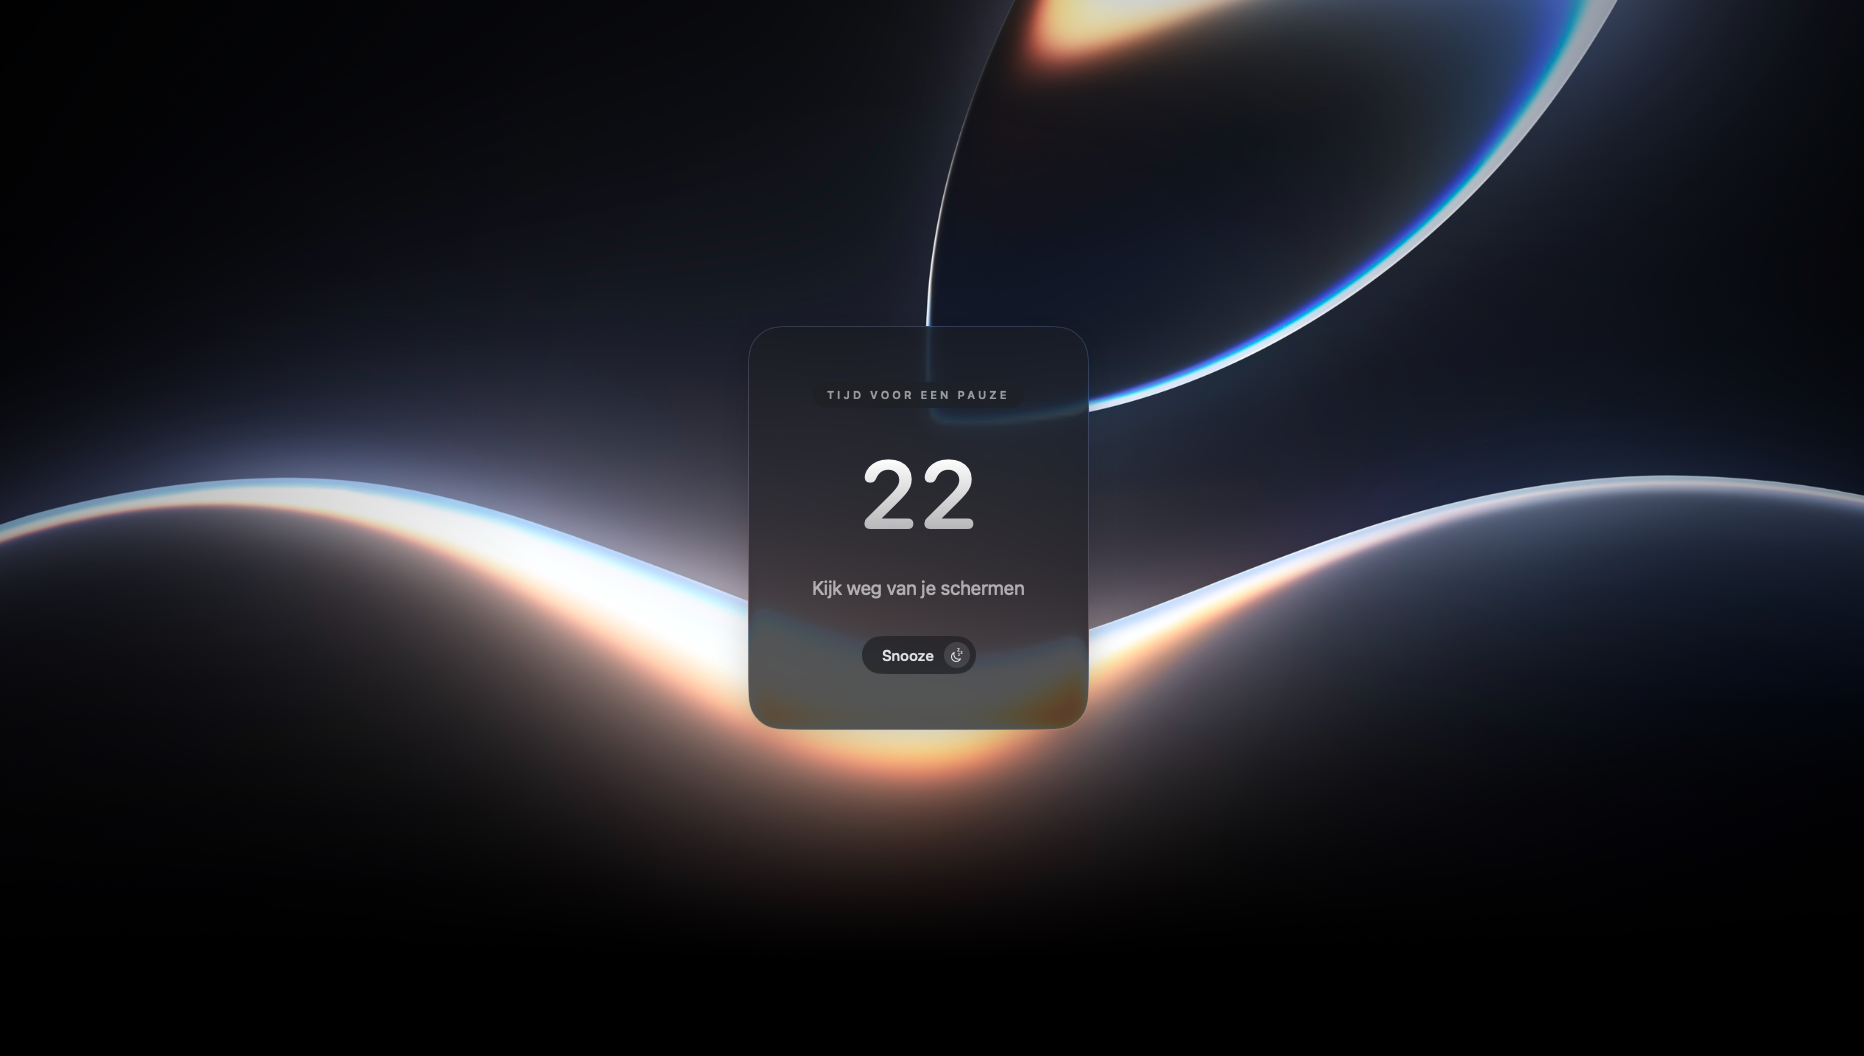
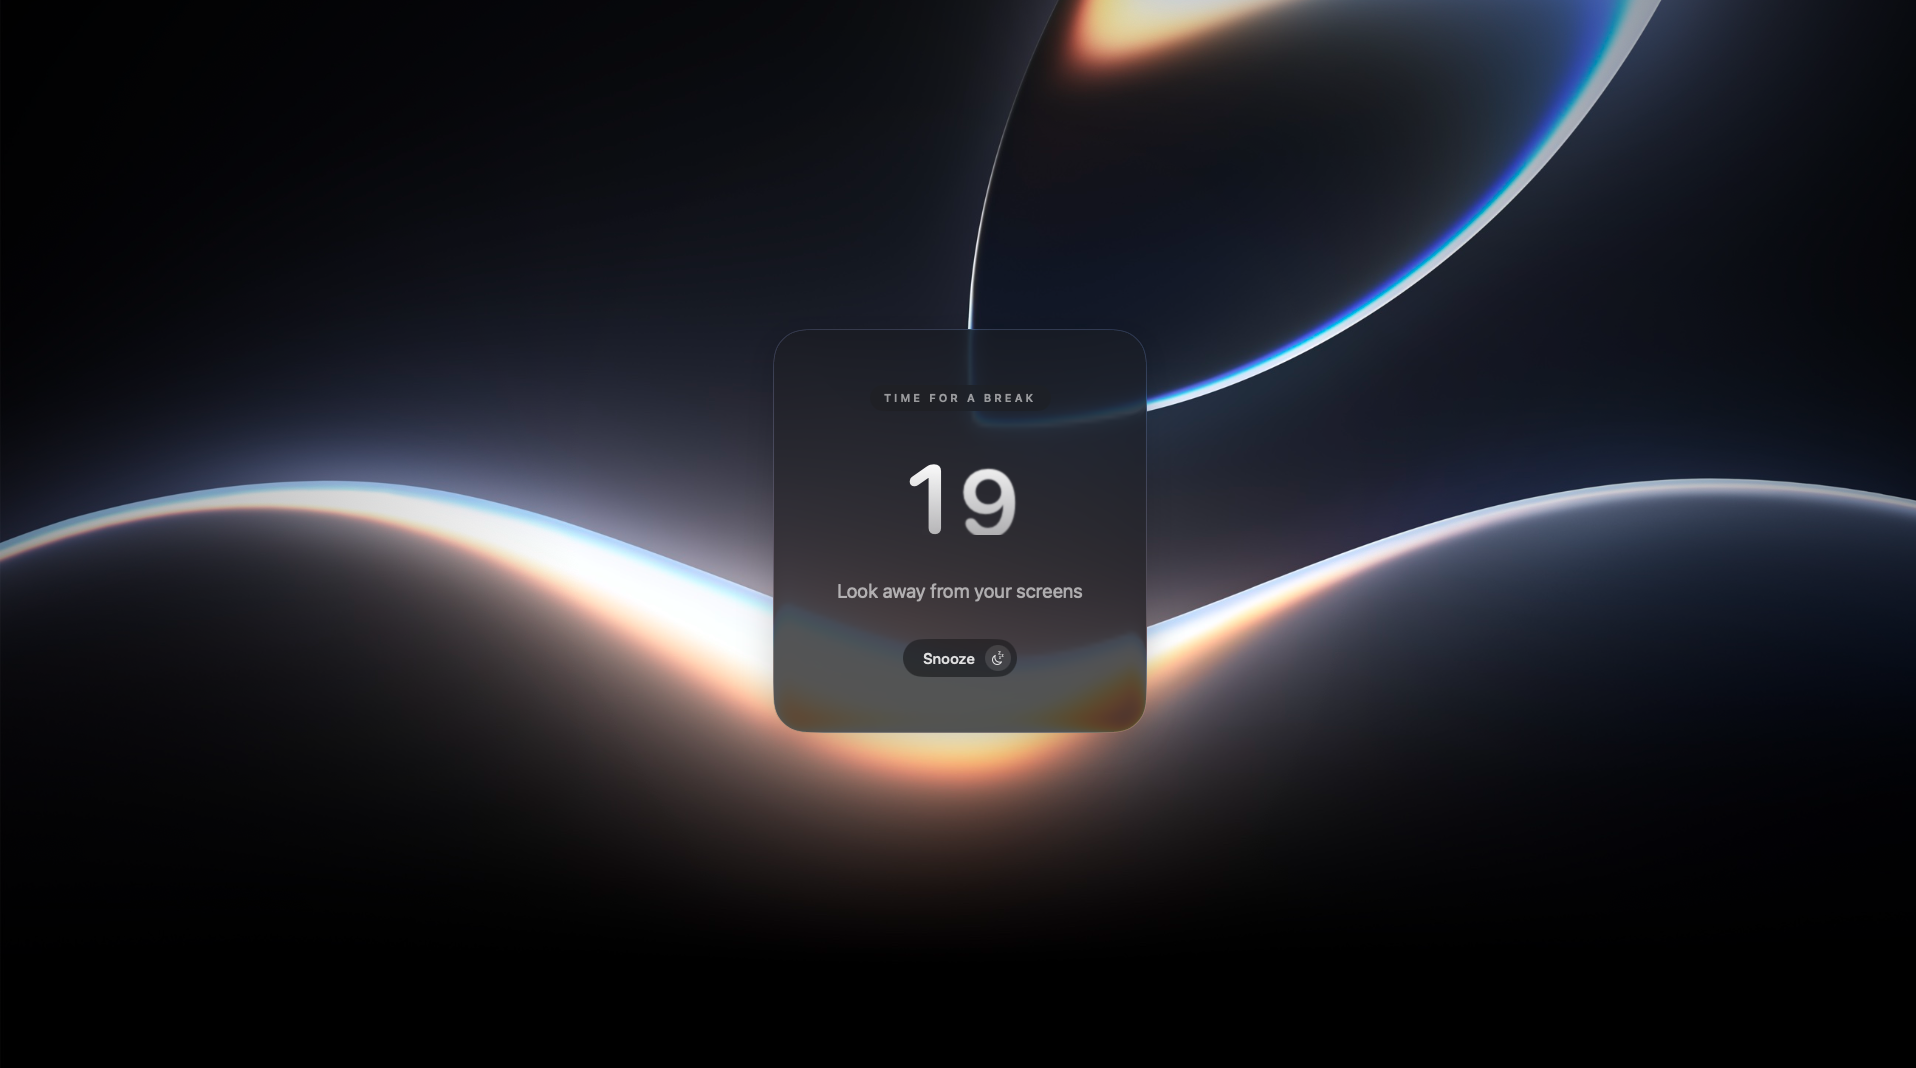
Show manual meeting-mode status in menu, add menu screenshot, use English break-overlay screenshot in README
Bump to 0.0.8.

diff --git a/Sources/Blink/BlinkApp.swift b/Sources/Blink/BlinkApp.swift
@@ -12,6 +12,8 @@ struct BlinkApp: App {
                 get: { appDelegate.coordinator.isMeetingModeActive },
                 set: { appDelegate.coordinator.setManuallyInMeeting($0) }
             ))
+            Text(appDelegate.coordinator.isMeetingModeActive ? "Manual: On" : "Manual: Off")
+                .foregroundStyle(.secondary)
             Text(appDelegate.coordinator.isCameraMeetingDetected
                  ? "Camera active — breaks suppressed"
                  : "Camera not in use")

diff --git a/README.md b/README.md
@@ -5,6 +5,7 @@
 A macOS menu bar app that nudges you to take breaks and look away from your screens.
 
 ![Break overlay](docs/images/break-overlay.png)
+![Menu](docs/images/menu.png)
 
 ## Building
 
